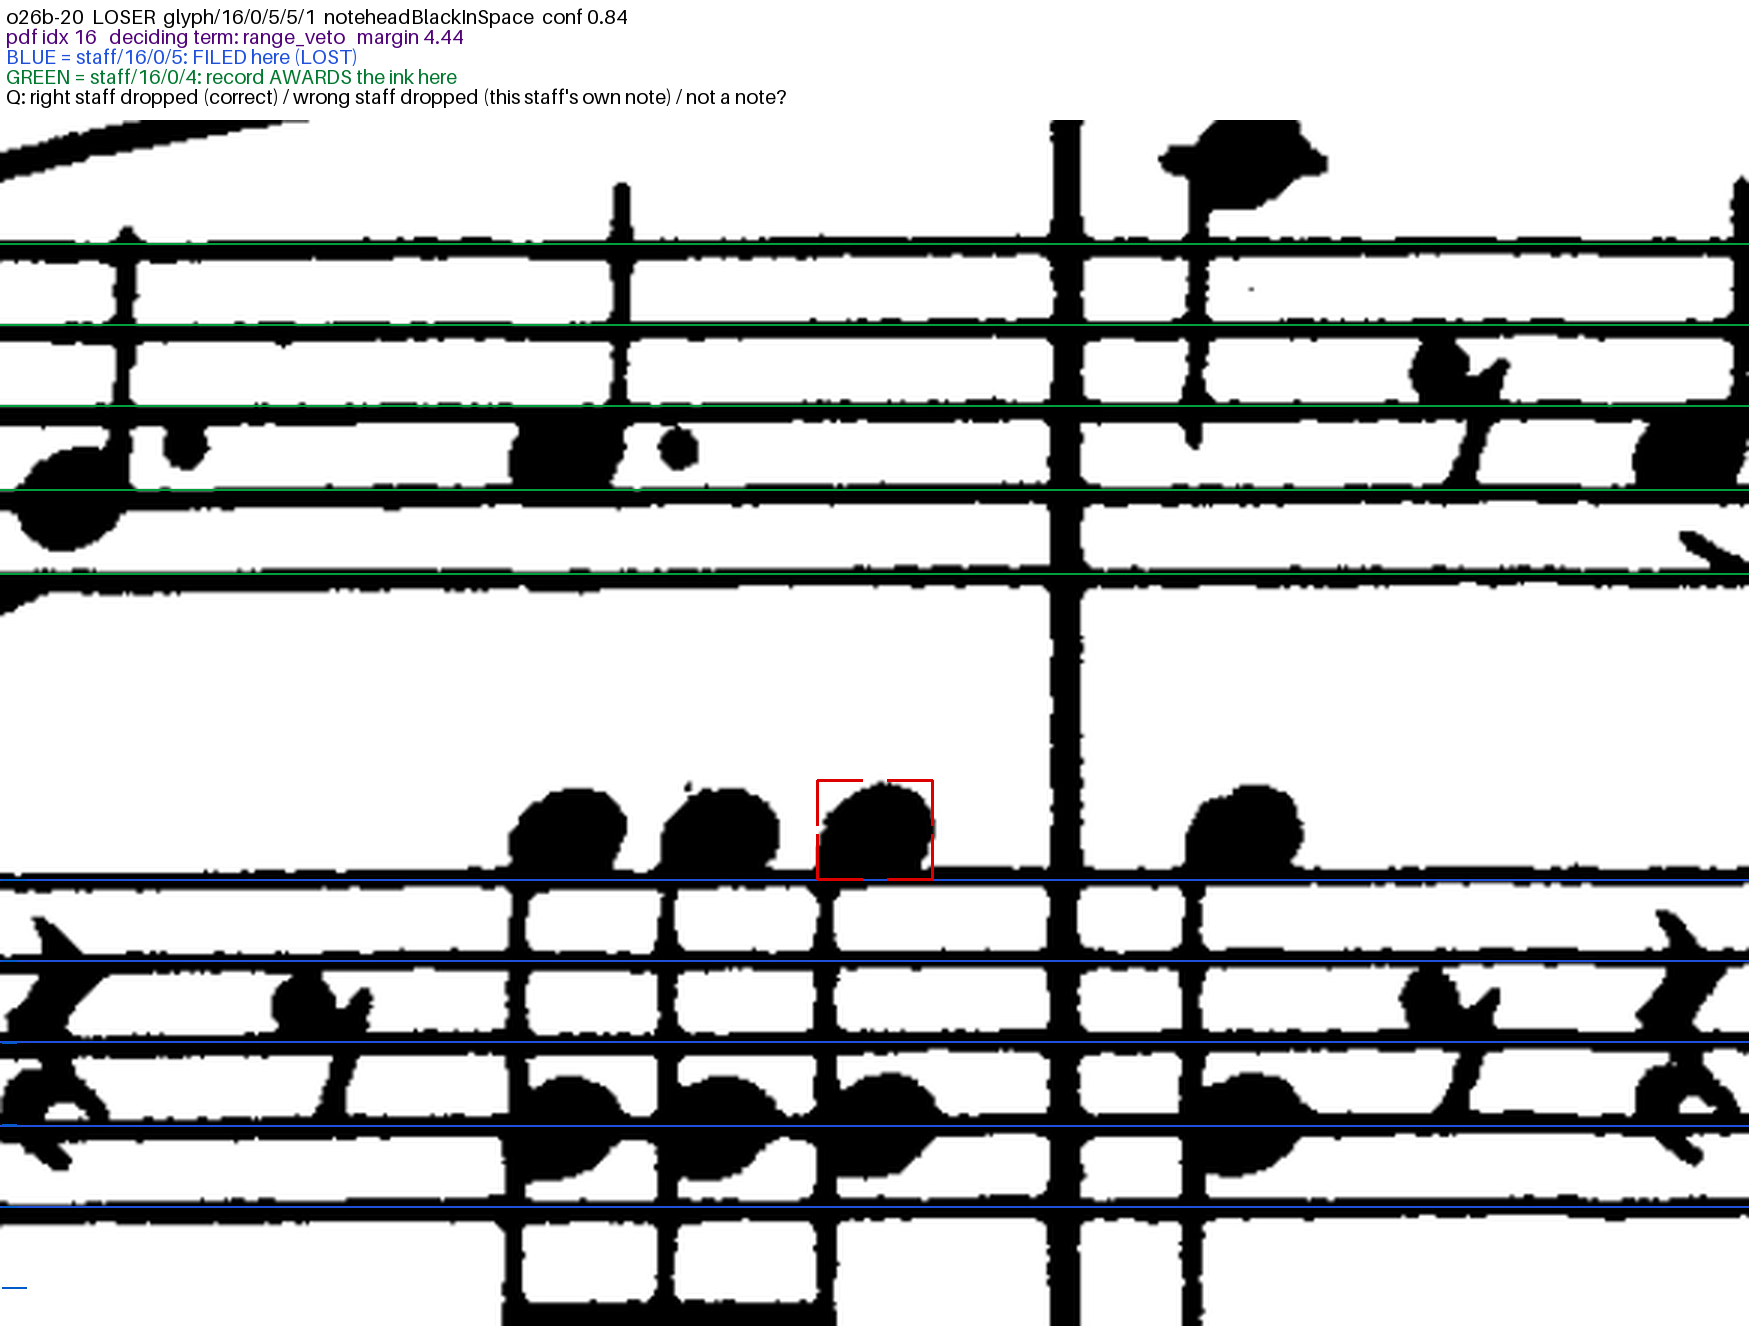
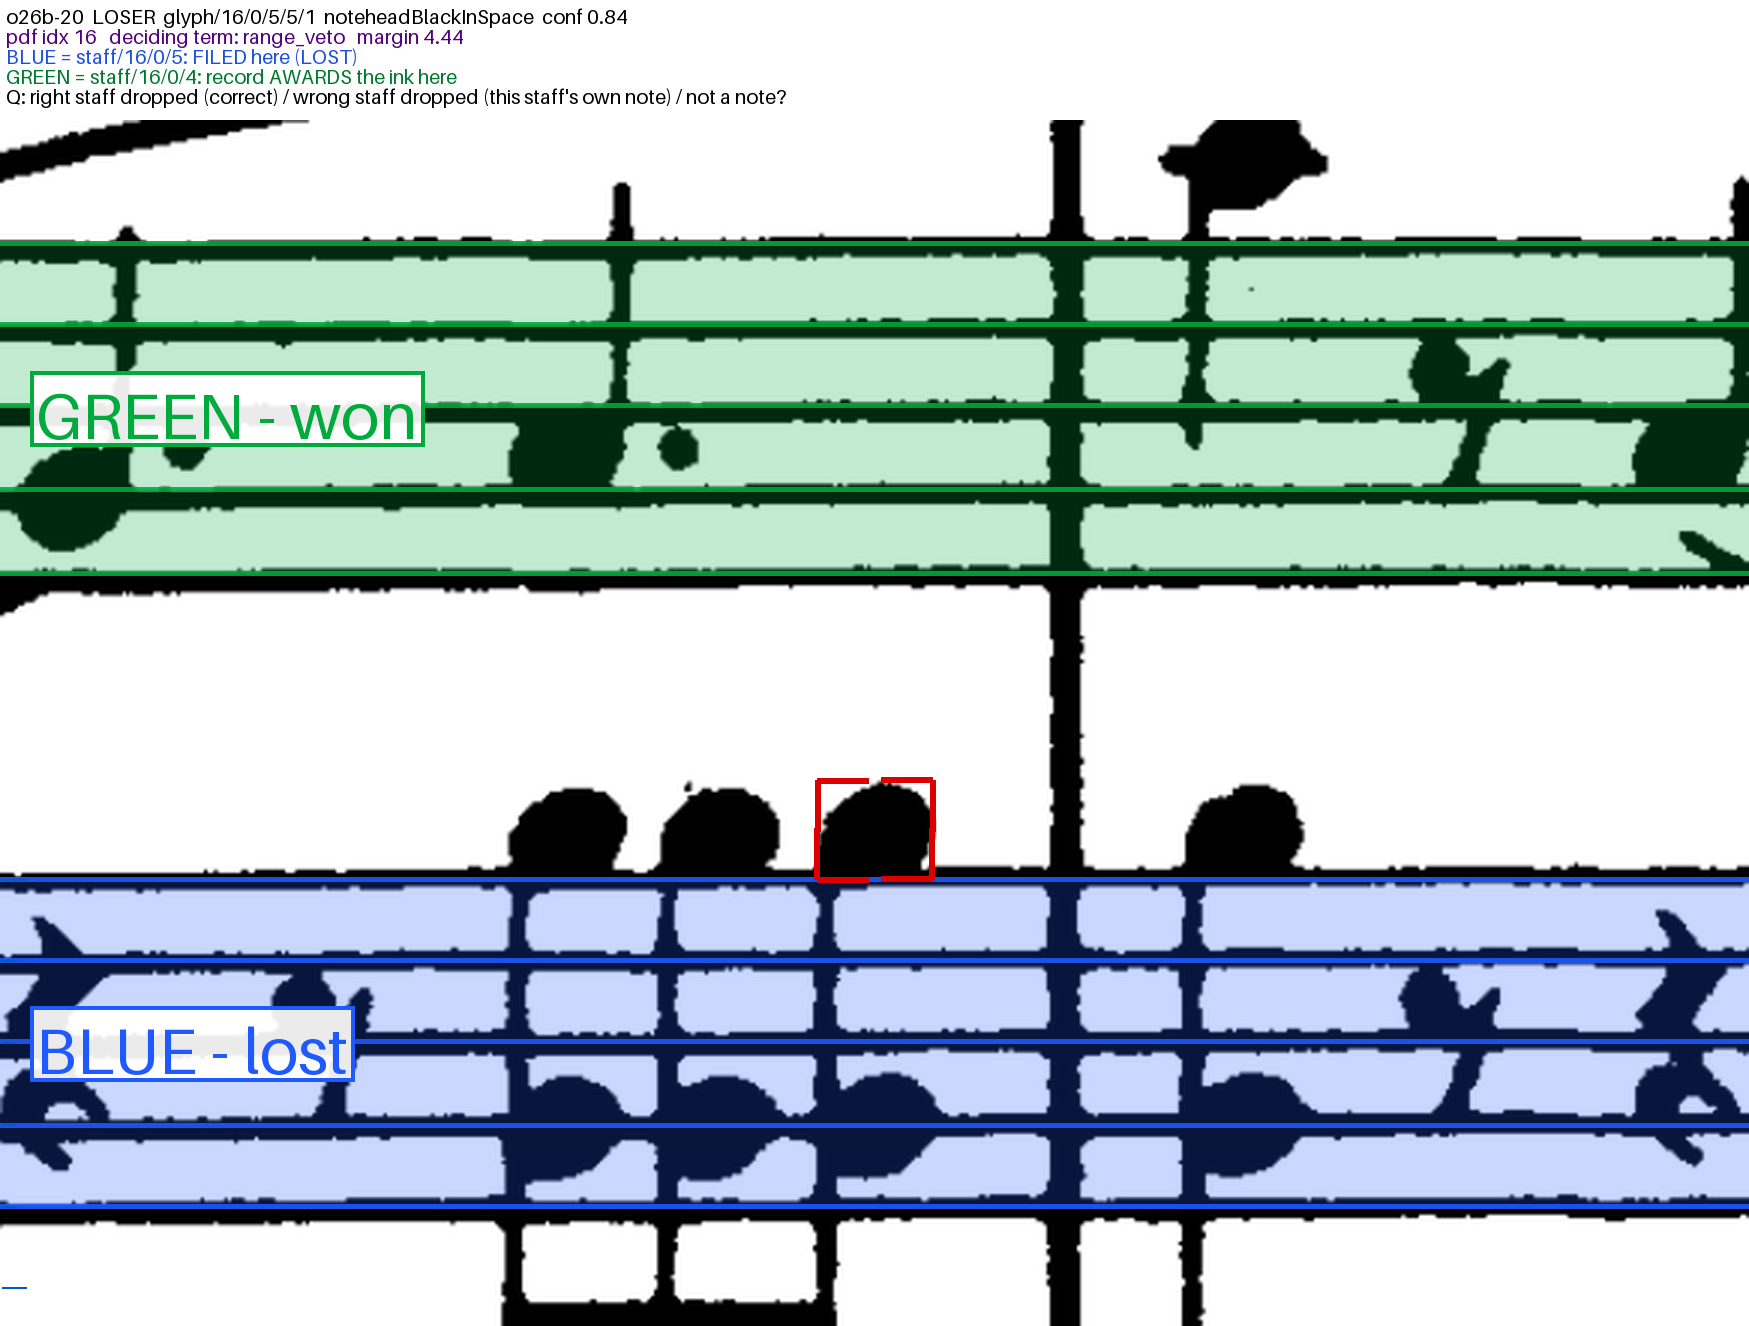
o26b crops re-rendered legibly: each staff a shaded band with a large label, thick lines, thicker bracket (Sean: the thin lines were unreadable); same 24 subjects

diff --git a/benchmarks/omr-owner-domain-2026-09/crop_losers_2_6b.py b/benchmarks/omr-owner-domain-2026-09/crop_losers_2_6b.py
@@ -177,26 +177,43 @@ def main() -> int:
         Z = 3
         crop = im.crop((cx0, cy0, cx1, cy1)).resize(
             ((cx1 - cx0) * Z, (cy1 - cy0) * Z), Image.LANCZOS)
+        # ⚠ Sean, 2026-09-28: "it's not very clear which staff is green and
+        # which is blue -- the lines are so thin". Each staff is now a
+        # TRANSLUCENT BAND from its top line to its bottom line, its lines
+        # drawn thick over the print, and a large label inside the band, so
+        # the colour survives the contact sheet's downscale.
+        overlay = Image.new("RGBA", crop.size, (0, 0, 0, 0))
+        od = ImageDraw.Draw(overlay)
+        big = ImageFont.load_default(size=max(30, int(sp_own * Z * 0.8)))
+        for lines_, rgb, label in (
+                (win_lines, (0, 170, 60), "GREEN - won"),
+                (own_lines, (30, 90, 255), "BLUE - lost")):
+            top = (min(lines_) - cy0) * Z
+            bot = (max(lines_) - cy0) * Z
+            od.rectangle([0, top, crop.width, bot], fill=rgb + (60,))
+            for ly in lines_:
+                y = (ly - cy0) * Z
+                if 0 <= y < crop.height:
+                    od.line([(0, y), (crop.width, y)], fill=rgb + (230,),
+                            width=5)
+            ty = max(0, top + (bot - top) / 2 - big.size / 2)
+            tw = od.textlength(label, font=big)
+            od.rectangle([30, ty - 4, 30 + tw + 12, ty + big.size + 6],
+                         fill=(255, 255, 255, 235), outline=rgb + (255,),
+                         width=4)
+            od.text((36, ty), label, fill=rgb + (255,), font=big)
+        crop = Image.alpha_composite(crop.convert("RGBA"), overlay).convert("RGB")
         dr = ImageDraw.Draw(crop)
-
-        for ly in win_lines:
-            y = (ly - cy0) * Z
-            if 0 <= y < crop.height:
-                dr.line([(0, y), (crop.width, y)], fill=(0, 160, 60), width=2)
-        for ly in own_lines:
-            y = (ly - cy0) * Z
-            if 0 <= y < crop.height:
-                dr.line([(0, y), (crop.width, y)], fill=(30, 80, 220), width=2)
 
         bx0, by0 = (px0 - cx0) * Z, (py0 - cy0) * Z
         bx1, by1 = (px1 - cx0) * Z, (py1 - cy0) * Z
-        arm_len = max(8, int((bx1 - bx0) * 0.4))
+        arm_len = max(12, int((bx1 - bx0) * 0.45))
         for (ax, ay, dx, dy) in ((bx0, by0, 1, 1), (bx1, by0, -1, 1),
                                  (bx0, by1, 1, -1), (bx1, by1, -1, -1)):
             dr.line([(ax, ay), (ax + dx * arm_len, ay)], fill=(220, 0, 0),
-                    width=3)
+                    width=6)
             dr.line([(ax, ay), (ax, ay + dy * arm_len)], fill=(220, 0, 0),
-                    width=3)
+                    width=6)
 
         # ruler: one tick per staff space, off the FILED (own) staff's top line
         step = sp_own * Z
